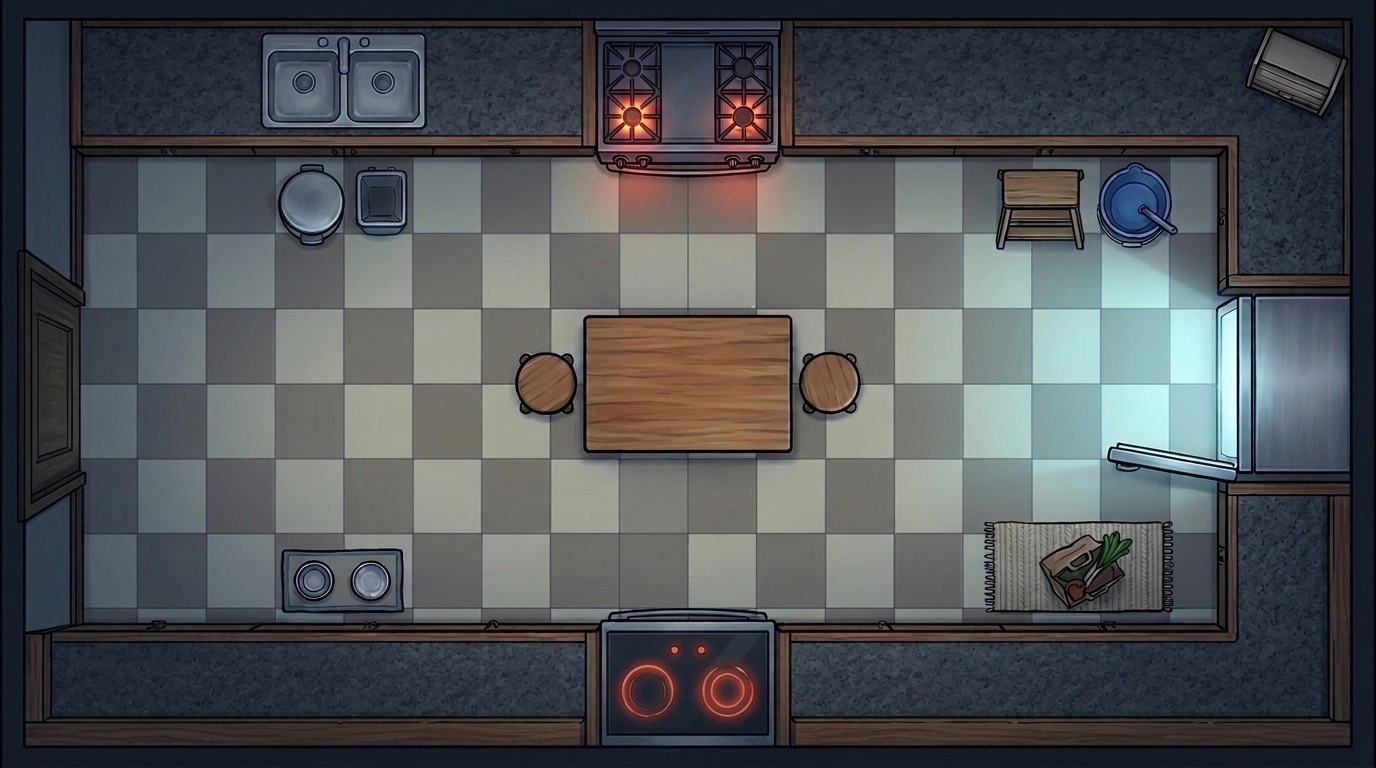
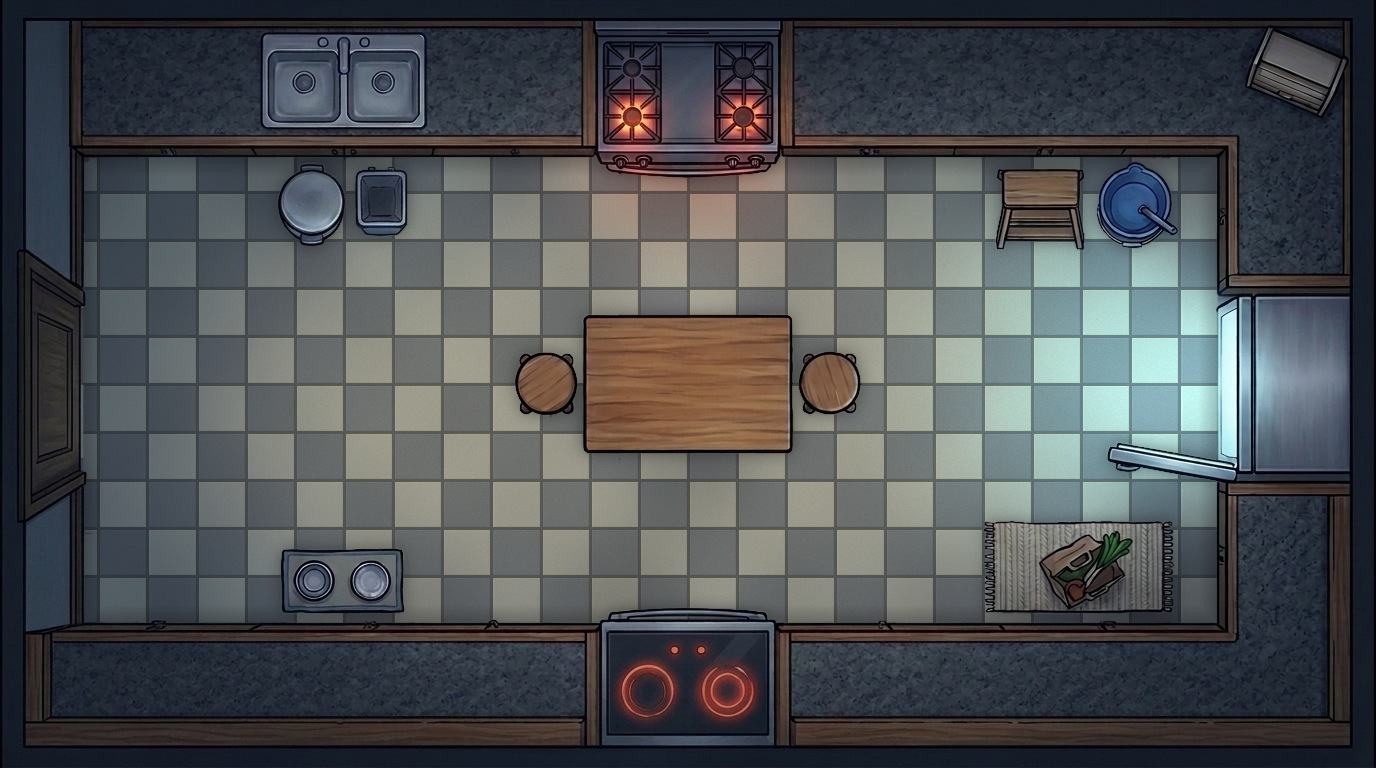
Update Tabletop Defense (TTDefense): grid-aligned Midnight Kitchen floor tiles

Changed region(s): [[0.0625, 0.1875, 0.9062, 0.8125], [0.8438, 0.7812, 0.875, 0.8125]]

diff --git a/ga-sw.js b/ga-sw.js
@@ -1,7 +1,7 @@
 /* Galactic Defense / Tabletop Defense service worker template.
  * scripts/generate-sw.mjs fills the placeholders below and writes dist/ga-sw.js after `vite build`.
  * Supports both root (`/`) and subpath (e.g. `/TTDefense/`) deployments. */
-const GA_VERSION = '0f4fb56fb391ac21';
+const GA_VERSION = '96d56e89d6333e6f';
 const GA_BASE = '/TTDefense/';
 const GA_PRECACHE = [
   "/TTDefense/assets/BitmapFont-3t_C8LUF.js",
